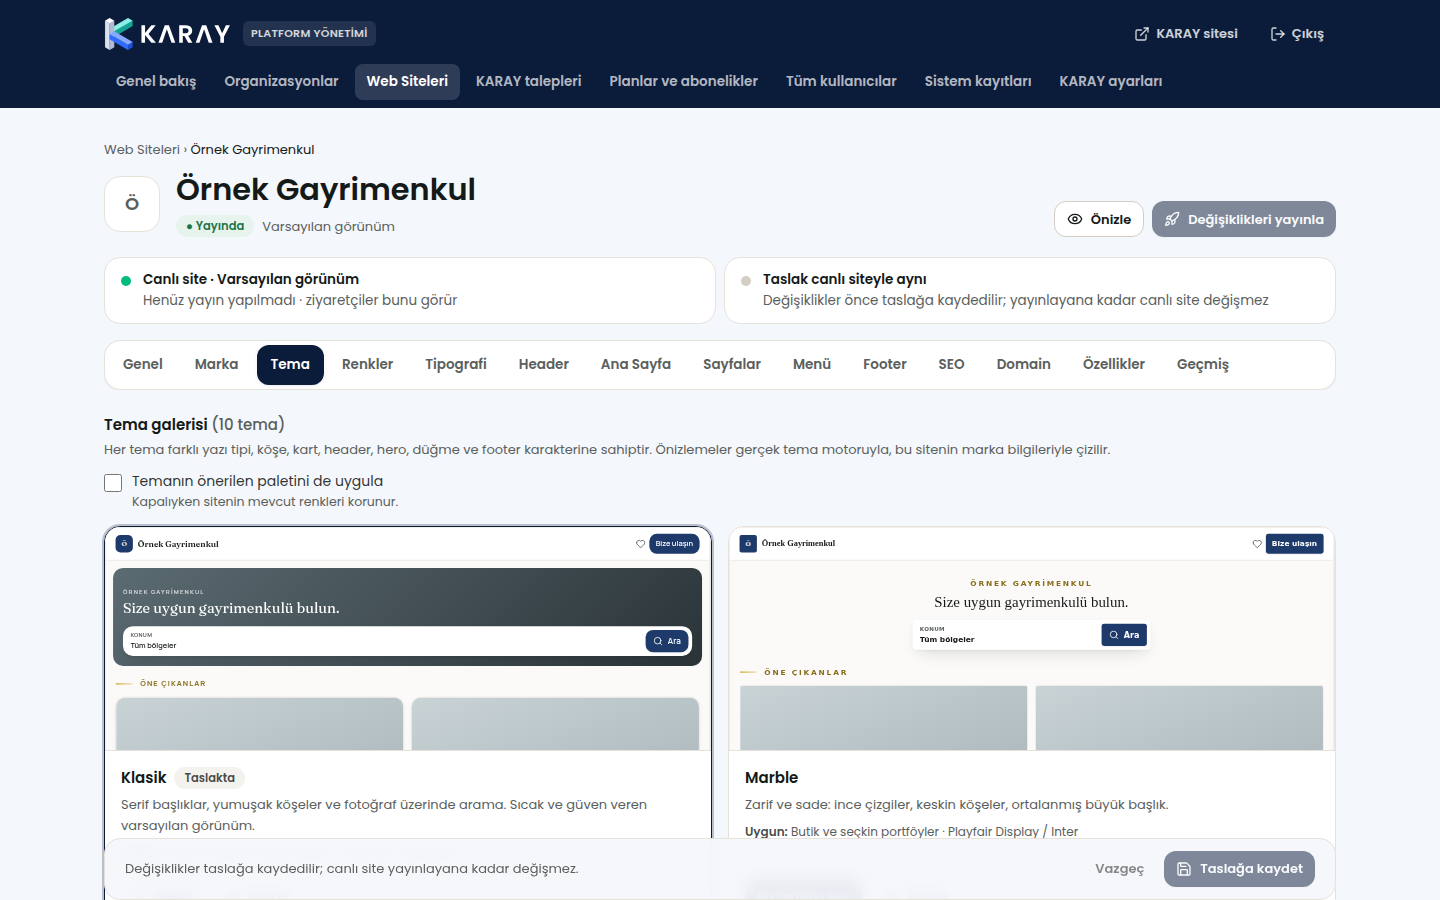
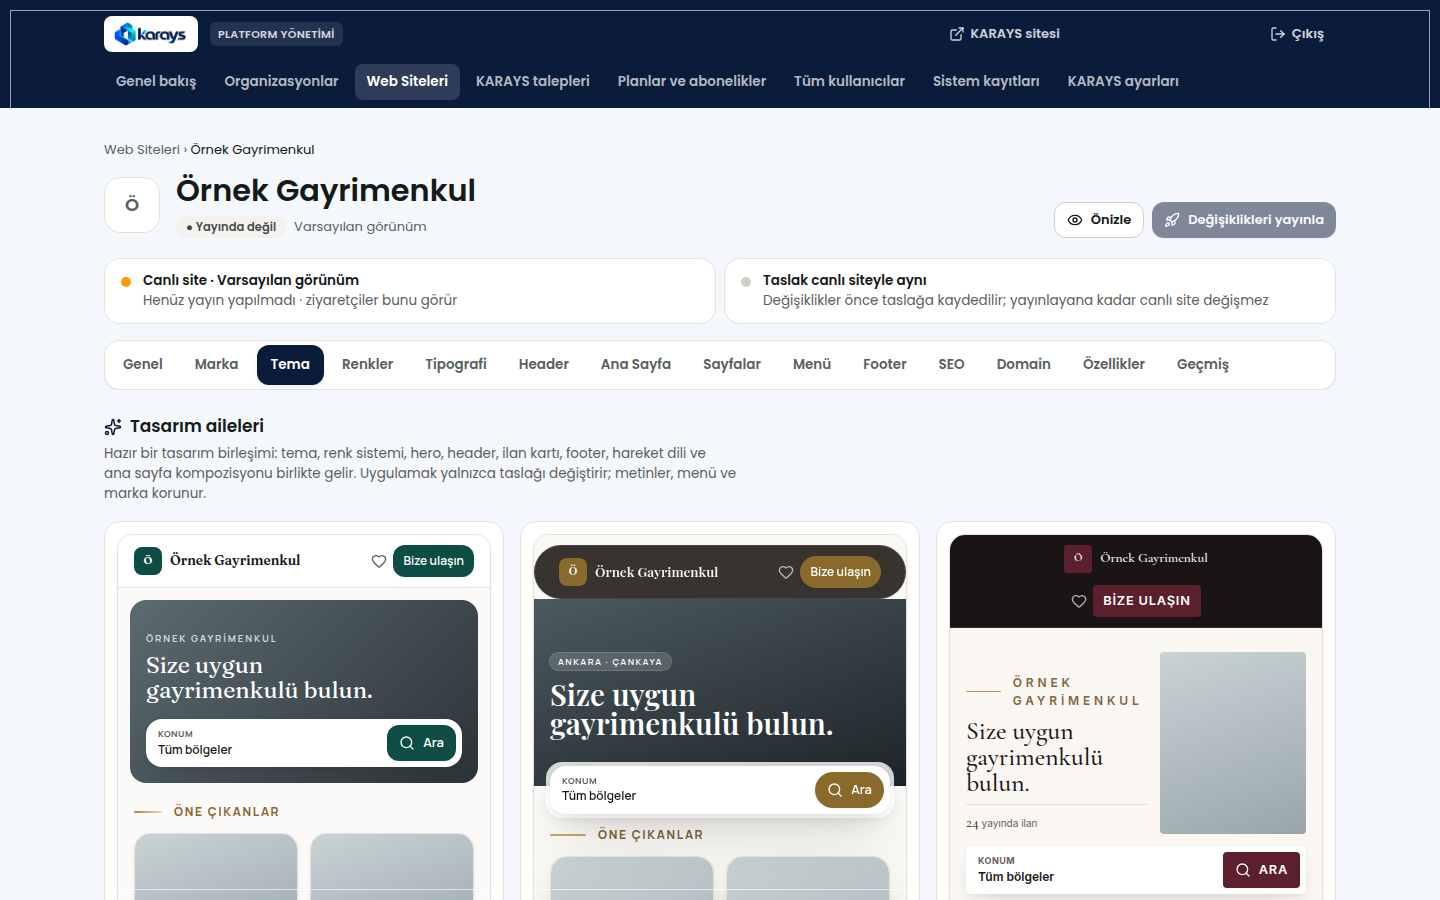
docs(karay): refresh the console screenshots on /karay with the KARAYS brand (K-16)
The two product screenshots on /karay still showed the old KARAY logo
and labels. They are re-captured from the real Site Control Center at
the same size (1440x900, scale 1): the Theme tab (design families) and
the Colors tab with a ready palette selected but not saved.

They were taken on an isolated local server with an empty test
database and the temporary "Örnek Gayrimenkul" tenant
(docs/KARAY_SITESI.md); no customer data, statistics or reviews. The
signed-in test e-mail is hidden in the header. The hero alt text now
says "tasarım aileleri" to match the screenshot.

Claude-Session: https://claude.ai/code/session_0148eusxoJiBurKT7xPz8Sh7

diff --git a/elvankent-gayrimenkul/src/app/karay/page.tsx b/elvankent-gayrimenkul/src/app/karay/page.tsx
@@ -146,7 +146,7 @@ export default async function KarayPage() {
                 </div>
                 <Image
                   src={ekranKontrolMerkezi}
-                  alt={`${PLATFORM_BRAND.name} Site Kontrol Merkezi: bir emlak ofisi sitesinin tema galerisi, canlı ve taslak durumu`}
+                  alt={`${PLATFORM_BRAND.name} Site Kontrol Merkezi: bir emlak ofisi sitesinin tasarım aileleri, canlı ve taslak durumu`}
                   sizes="(min-width: 1024px) 600px, 100vw"
                   priority
                   className="h-auto w-full"
